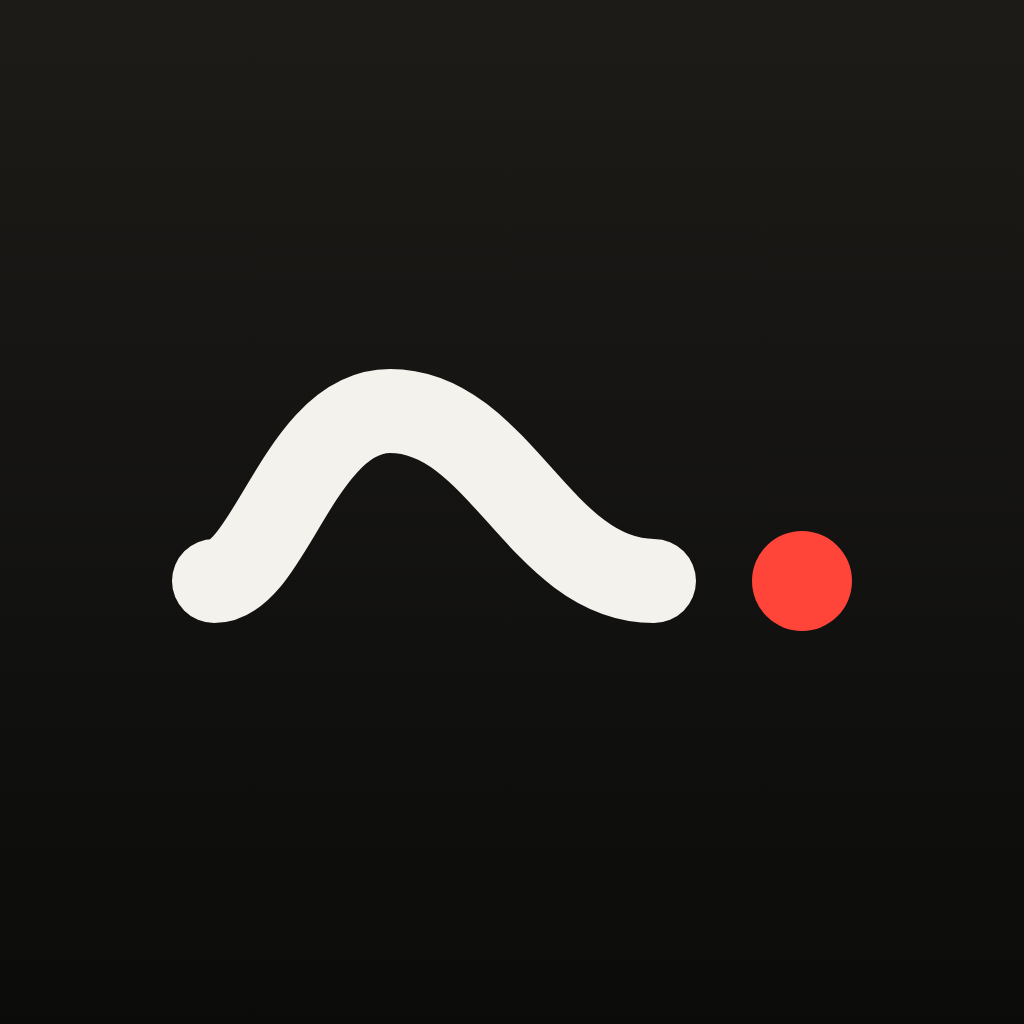
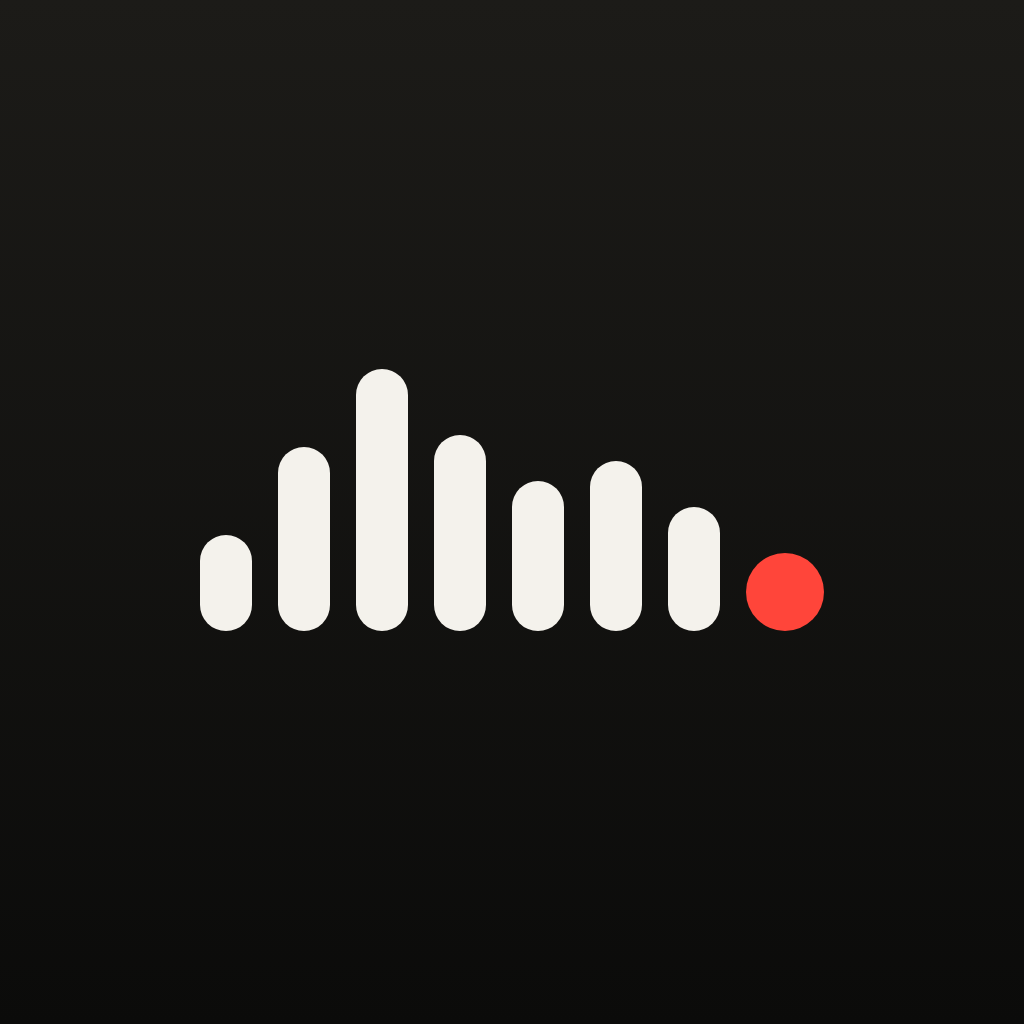
feat(brand): a waveform mark with the red stop as its last beat
The phrase curve read as a worm. The mark is now seven rounded bars that
rise, fall and land, with the red stop one bar-gap after the last bar, the
same width as a bar and on the same baseline. render.py builds it from
constants and regenerates the icon, Android layers, favicon and both splash
marks (the splash is now 1248x524 to fit the narrower mark). The welcome
intro's mark rises bar by bar on a beat, and the stop lands on the next one.

Changed region(s): [[0.1562, 0.3438, 0.8438, 0.625]]

diff --git a/src/components/onboarding/WelcomeIntro.tsx b/src/components/onboarding/WelcomeIntro.tsx
@@ -3,7 +3,9 @@ import { ScrollView, useWindowDimensions, View, type NativeScrollEvent, type Nat
 import { SafeAreaView } from "react-native-safe-area-context";
 import { Ionicons } from "@expo/vector-icons";
 import Animated, {
+  Easing,
   FadeIn,
+  type SharedValue,
   FadeInDown,
   useAnimatedProps,
   useAnimatedStyle,
@@ -12,7 +14,7 @@ import Animated, {
   withSpring,
   withTiming,
 } from "react-native-reanimated";
-import Svg, { Circle, Path } from "react-native-svg";
+import Svg, { Circle, Rect } from "react-native-svg";
 import { Aura } from "../common/Aura";
 import { PrimaryButton } from "../common/PrimaryButton";
 import { PressableScale } from "../common/PressableScale";
@@ -172,39 +174,58 @@ function Dot({ active }: { active: boolean }) {
 
 // --- The pictures ------------------------------------------------------------
 
-const AnimatedPath = Animated.createAnimatedComponent(Path);
+const AnimatedRect = Animated.createAnimatedComponent(Rect);
 const AnimatedCircle = Animated.createAnimatedComponent(Circle);
-// Longer than the curve, so a dash this long covers all of it.
-const CURVE_LENGTH = 720;
 
-// The Tono mark: a phrase that rises, falls and lands — then the full stop.
+// The Tono mark, the same geometry as assets/brand/render.py: a waveform of
+// a phrase that rises, falls and lands, and the red stop as its last beat,
+// all on one baseline.
+const BASELINE = 631;
+const BAR_WIDTH = 52;
+const BAR_STEP = 78;
+const BAR_HEIGHTS = [96, 184, 262, 196, 150, 170, 124];
+const FIRST_BAR_X = 200;
+const STOP_RADIUS = 39;
+const STOP_CX = FIRST_BAR_X + BAR_HEIGHTS.length * BAR_STEP + STOP_RADIUS;
+// The bars rise one beat apart; the stop lands on the next beat.
+const BEAT_MS = 70;
+const FIRST_BEAT_MS = 150;
+const RISE_MS = 420;
+const TOTAL_MS = FIRST_BEAT_MS + BAR_HEIGHTS.length * BEAT_MS + RISE_MS;
+
 function BrandMark({ play }: { play: boolean }) {
   const { colors } = useTheme();
-  const drawn = useSharedValue(0);
+  const clock = useSharedValue(0);
   const dot = useSharedValue(0);
   useEffect(() => {
     if (!play) return;
-    drawn.value = 0;
+    clock.value = 0;
     dot.value = 0;
-    drawn.value = withDelay(150, withTiming(1, { duration: 1100, easing: easeOut }));
-    dot.value = withDelay(1150, withSpring(1, { damping: 9, stiffness: 220, mass: 0.7 }));
-  }, [play, drawn, dot]);
-  const curve = useAnimatedProps(() => ({ strokeDashoffset: CURVE_LENGTH * (1 - drawn.value) }));
-  const stop = useAnimatedProps(() => ({ r: 50 * dot.value }));
+    clock.value = withTiming(TOTAL_MS, { duration: TOTAL_MS, easing: Easing.linear });
+    dot.value = withDelay(FIRST_BEAT_MS + BAR_HEIGHTS.length * BEAT_MS, withSpring(1, { damping: 9, stiffness: 220, mass: 0.7 }));
+  }, [play, clock, dot]);
+  const stop = useAnimatedProps(() => ({ r: STOP_RADIUS * dot.value }));
   return (
-    <Svg width={220} height={86} viewBox="172 369 680 262" accessibilityElementsHidden importantForAccessibility="no-hide-descendants">
-      <AnimatedPath
-        d="M214 581 C 270 581, 300 411, 390 411 C 500 411, 540 581, 654 581"
-        fill="none"
-        stroke={colors.textPrimary}
-        strokeWidth={84}
-        strokeLinecap="round"
-        strokeDasharray={[CURVE_LENGTH, CURVE_LENGTH]}
-        animatedProps={curve}
-      />
-      <AnimatedCircle cx={802} cy={581} fill={colors.record} animatedProps={stop} />
+    // The mark's box (200 369 624 262) with room around it for the overshoot.
+    <Svg width={210} height={100} viewBox="180 336 664 316" accessibilityElementsHidden importantForAccessibility="no-hide-descendants">
+      {BAR_HEIGHTS.map((h, i) => (
+        <BeatBar key={i} index={i} height={h} clock={clock} color={colors.textPrimary} />
+      ))}
+      <AnimatedCircle cx={STOP_CX} cy={BASELINE - STOP_RADIUS} fill={colors.record} animatedProps={stop} />
     </Svg>
   );
+}
+
+// One bar, rising from the baseline with a small overshoot on its beat.
+function BeatBar({ index, height, clock, color }: { index: number; height: number; clock: SharedValue<number>; color: string }) {
+  const props = useAnimatedProps(() => {
+    const x = Math.min(1, Math.max(0, (clock.value - FIRST_BEAT_MS - index * BEAT_MS) / RISE_MS)) - 1;
+    // easeOutBack
+    const rise = 1 + 2.2 * x * x * x + 1.2 * x * x;
+    const h = Math.max(0, height * rise);
+    return { y: BASELINE - h, height: h };
+  });
+  return <AnimatedRect x={FIRST_BAR_X + index * BAR_STEP} width={BAR_WIDTH} rx={BAR_WIDTH / 2} fill={color} animatedProps={props} />;
 }
 
 const PLAN = [

diff --git a/assets/brand/render.py b/assets/brand/render.py
@@ -4,8 +4,9 @@ rendering) and Pillow.
 
     python assets/brand/render.py [path-to-chrome]
 
-The mark: a spoken phrase that rises, falls and lands — then a full stop.
-The red dot is both the stop and the record light.
+The mark: a waveform of a spoken phrase that rises, falls and lands, and
+the red dot as its last beat: a full stop on the same baseline, one bar-gap
+after the last bar. The dot is both the stop and the record light.
 """
 
 import os
@@ -26,16 +27,25 @@ INK_STROKE = "#181714"
 RED = "#FF453A"  # colors.record
 
 # The mark on a 1024 canvas, centered on (512, 500) — a little above the
-# middle, where the eye puts the center.
-PHRASE = "M214 581 C 270 581, 300 411, 390 411 C 500 411, 540 581, 654 581"
-MARK_BOX = (172, 369, 680, 262)  # x, y, w, h of the stroke and dot
+# middle, where the eye puts the center. Seven rounded bars and the stop,
+# all standing on one baseline. Kept in step with BrandMark in
+# src/components/onboarding/WelcomeIntro.tsx.
+BASELINE = 631
+BAR_WIDTH = 52
+BAR_GAP = 26
+BAR_HEIGHTS = [96, 184, 262, 196, 150, 170, 124]
+STOP_RADIUS = 39  # a bar-sized stop: the last beat
+FIRST_BAR_X = 200
+STOP_CX = FIRST_BAR_X + len(BAR_HEIGHTS) * (BAR_WIDTH + BAR_GAP) + STOP_RADIUS  # 785
+MARK_BOX = (200, 369, 624, 262)  # x, y, w, h of the bars and the stop
 
 
-def mark(stroke, dot=RED):
-    return (
-        f'<path d="{PHRASE}" fill="none" stroke="{stroke}" stroke-width="84" stroke-linecap="round"/>'
-        f'<circle cx="802" cy="581" r="50" fill="{dot}"/>'
+def mark(fill, dot=RED):
+    bars = "".join(
+        f'<rect x="{FIRST_BAR_X + i * (BAR_WIDTH + BAR_GAP)}" y="{BASELINE - h}" width="{BAR_WIDTH}" height="{h}" rx="{BAR_WIDTH // 2}" fill="{fill}"/>'
+        for i, h in enumerate(BAR_HEIGHTS)
     )
+    return bars + f'<circle cx="{STOP_CX}" cy="{BASELINE - STOP_RADIUS}" r="{STOP_RADIUS}" fill="{dot}"/>'
 
 
 INK_GRADIENT = (
@@ -65,8 +75,8 @@ MASTERS = {
 OUTPUTS = [
     ("icon.png", MASTERS["icon.svg"], 1024, 1024, False),
     ("favicon.png", MASTERS["icon.svg"], 1024, 1024, False),
-    ("splash-icon.png", MASTERS["mark-light.svg"], 1360, 524, True),
-    ("splash-icon-dark.png", MASTERS["mark-dark.svg"], 1360, 524, True),
+    ("splash-icon.png", MASTERS["mark-light.svg"], MARK_BOX[2] * 2, MARK_BOX[3] * 2, True),
+    ("splash-icon-dark.png", MASTERS["mark-dark.svg"], MARK_BOX[2] * 2, MARK_BOX[3] * 2, True),
     ("android-icon-background.png", svg(INK_GRADIENT + '<rect width="1024" height="1024" fill="url(#bg)"/>'), 1024, 1024, False),
     ("android-icon-foreground.png", svg(adaptive(mark(WARM_WHITE))), 1024, 1024, True),
     ("android-icon-monochrome.png", svg(adaptive(mark("#FFFFFF", "#FFFFFF"))), 1024, 1024, True),
